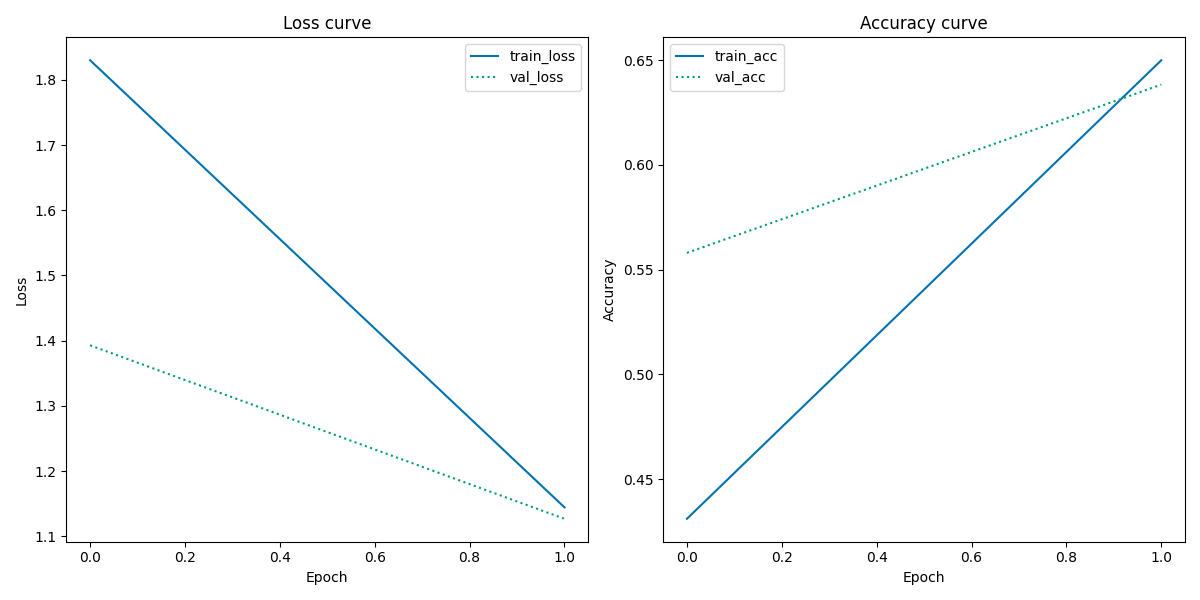
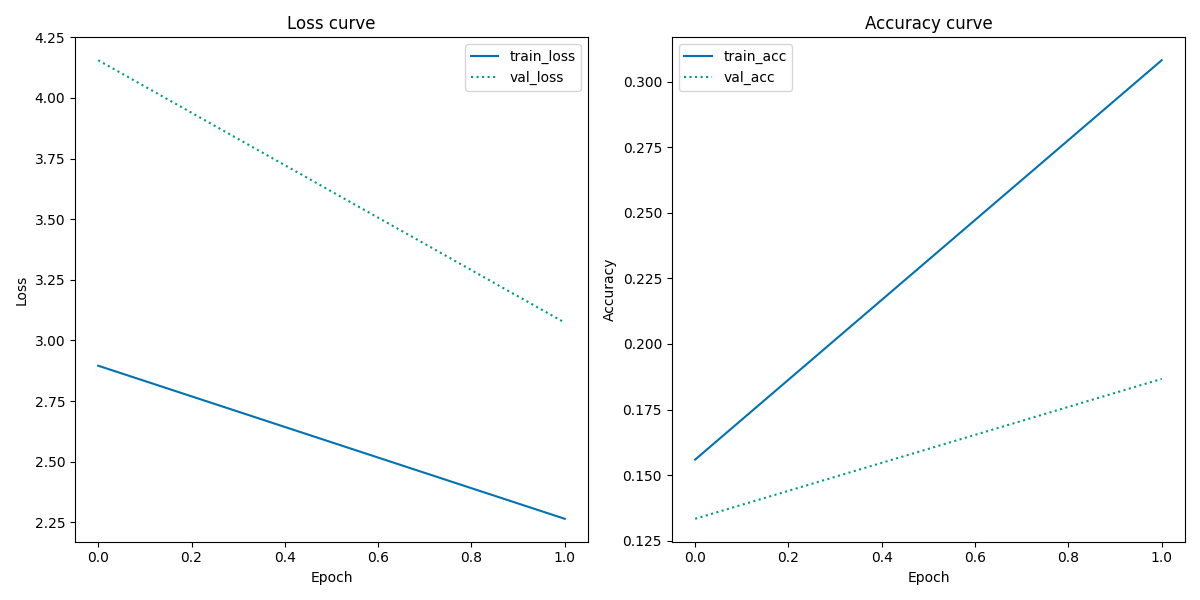
update readme

diff --git a/src/VGG16.py b/src/VGG16.py
@@ -39,13 +39,14 @@ import matplotlib.pyplot as plt
 
 def load_data():
     # converting the metadata into Pandas objects
-    # !!! NTS remember to change ".." to "data" in final version
     test_metadata = pd.read_json(os.path.join("..", "images", "metadata", "test_data.json"), lines = True)
     train_metadata = pd.read_json(os.path.join("..", "images", "metadata", "train_data.json"), lines = True)
     val_metadata = pd.read_json(os.path.join("..", "images", "metadata", "val_data.json"), lines = True)
 
-    # !!!
-    train_metadata = train_metadata.sample(frac=0.1)
+    # !!! TAKING A SMALL FRACTION FOR TESTING PURPOSES
+    train_metadata = train_metadata.sample(frac=0.01)
+    test_metadata = test_metadata.sample(frac=0.01)
+    val_metadata = val_metadata.sample(frac=0.01)
 
     # changing the column with the image path from a relative path to an absolute path
     test_metadata["image_path"] = "/work/" + test_metadata["image_path"]
@@ -174,16 +175,21 @@ def plot_history(H, epochs):
     # save the plot
     plt.savefig(os.path.join("out", "history_plt.png"))
 
+
 def clf_report(model, test_images, test_metadata, label_names):
     predictions = model.predict(test_images, batch_size=128)
+    predictions = np.argmax(predictions, axis=1)
+    # generating predictions
+    predictions = [label_names[k] for k in predictions] # NTS: NEW
     y_test = list(test_metadata.class_label) # (new)
-    clf_report = print(classification_report(y_test, # removed: .argmax(axis=1)
-                            predictions.argmax(axis=1), 
-                            target_names=label_names))
+    clf_report = classification_report(y_test, # removed: .argmax(axis=1)
+                            predictions, # removed: .argmax(axis=1)
+                            target_names=label_names)
+    # clf_report = print(clf_report)
     # save the classification report
     txtfile_path = os.path.join("out", "clf_report.txt")
     txtfile = open(txtfile_path, "w")
-    txtfile.write(clf_report)
+    txtfile.write(str(clf_report))
     txtfile.close
 
 

diff --git a/README.md b/README.md
@@ -38,6 +38,10 @@ This installs the necessary packages into a virtual enviroment and runs the code
 | run.sh | shell file which runs the code in src |
 | setup.sh | shell file which installs the necessary packages |
 
+## Discussion
+
+The goal of this repository is to train a pretrained classifier on a unseen dataset which is a concept known as *transfer learning*. Pretrained classifiers like VGG16 are effective because they have been trained on very large amounts of data which requires a vast amount of ressources. A pretrained classifier therefore makes classification tasks more efficient and available to the average user.
+
 
 .................................................
 
